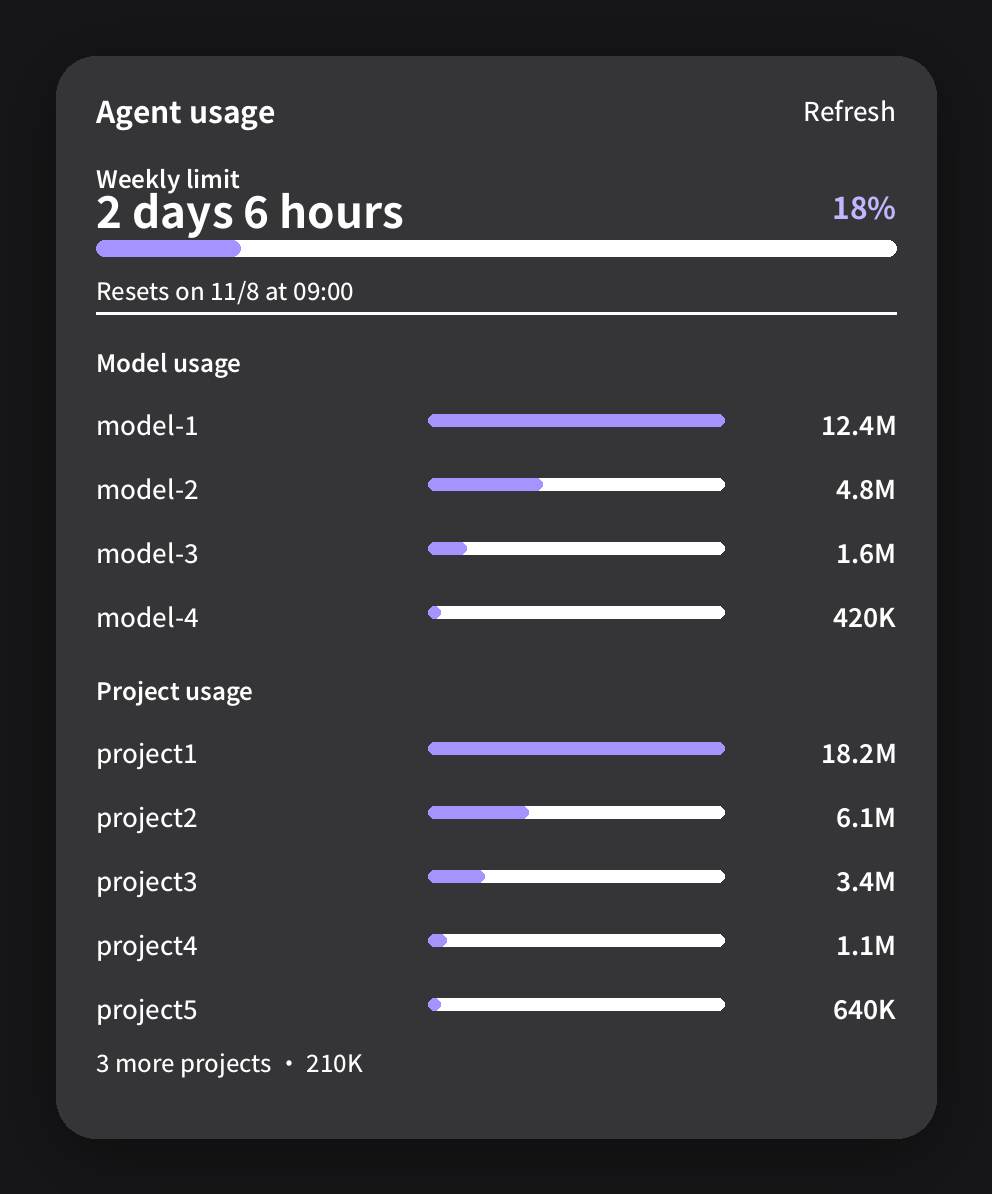
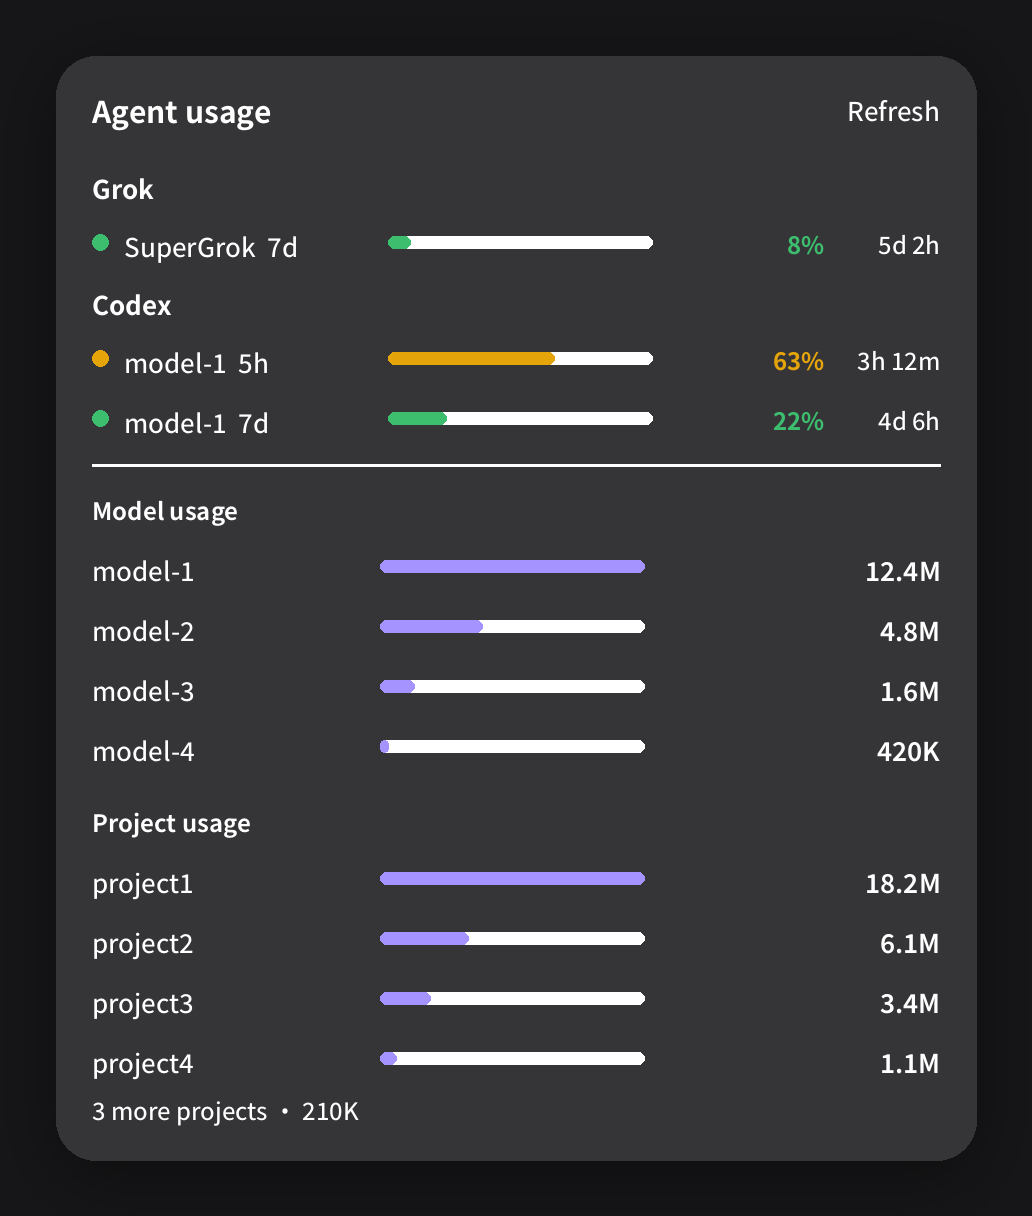
Update the README preview to the compact limit rows.

diff --git a/README.md b/README.md
@@ -4,7 +4,7 @@ A GNOME Shell menu for AI coding agents.
 
 ![Agent Usage](images/preview.png)
 
-A 5-hour or weekly limit appears when a local login can answer it. Under that, usage is split by model and by project. A limit is shown only when its reset time is known.
+Each account lists only the windows it can answer: a model or plan, then `5h` or `7d`, a bar, the percent, and the time left. Under that, usage is split by model and by project.
 
 ## Install
 
